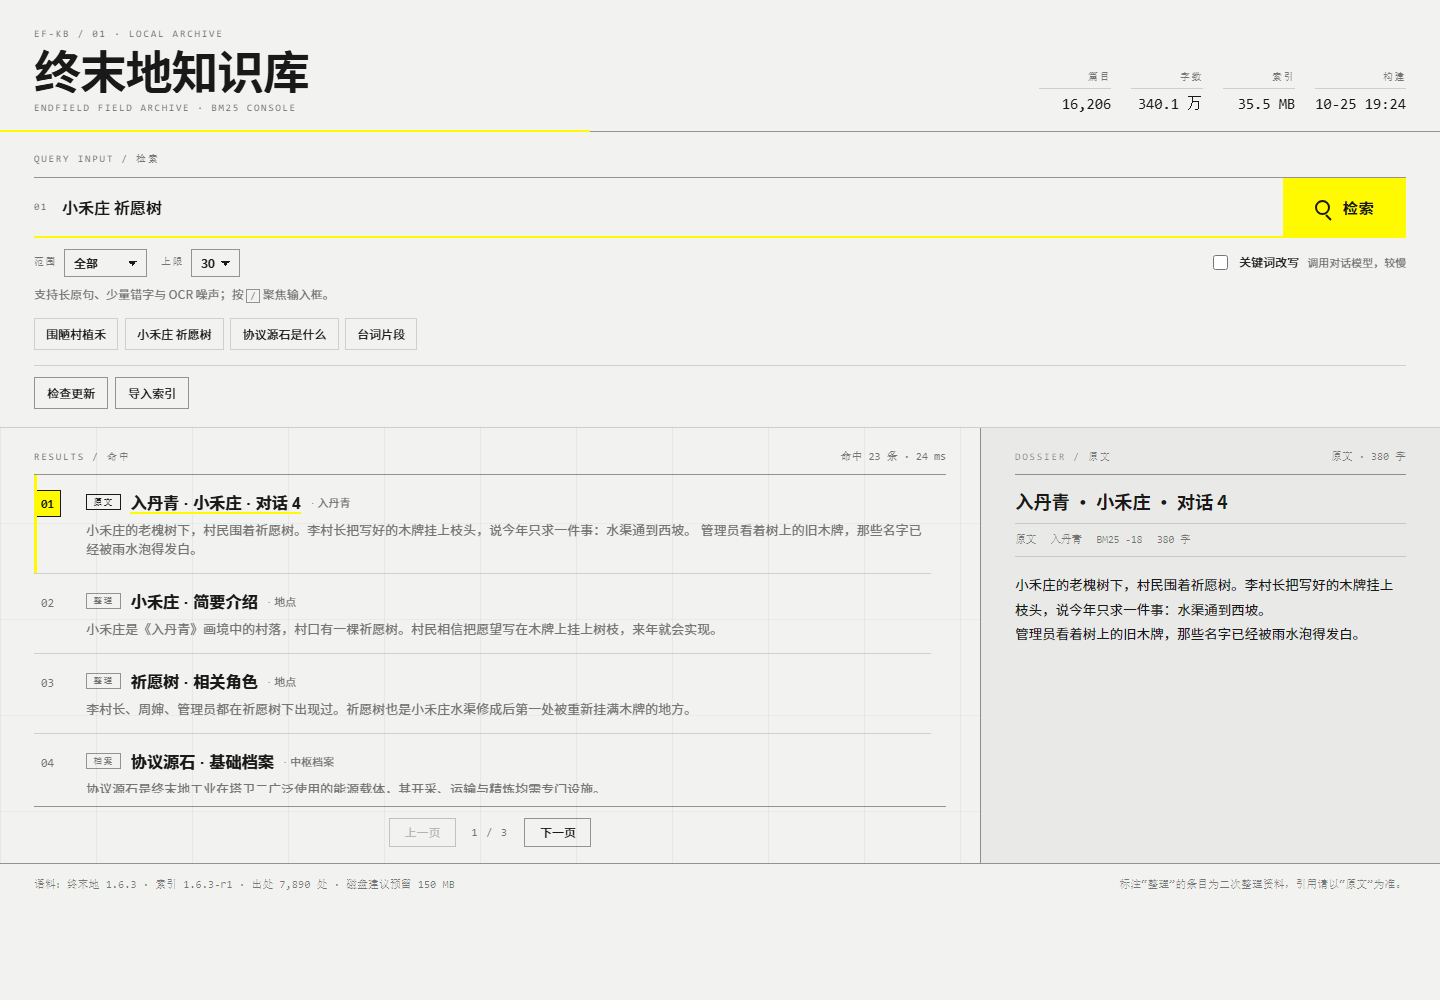
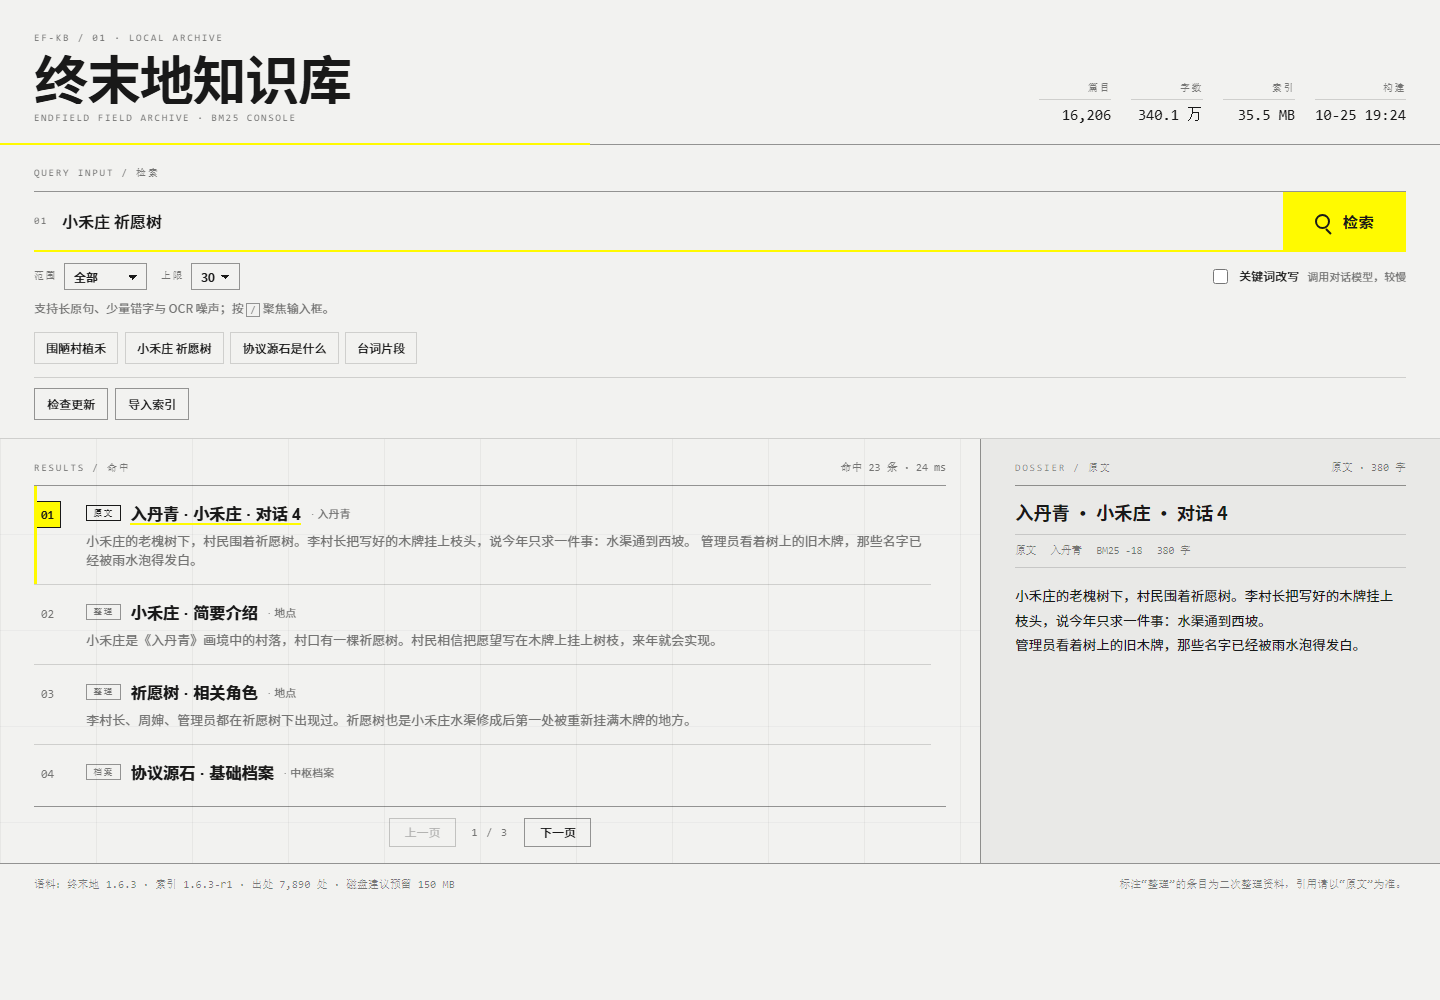
fix: keep header proportions on wide viewports

diff --git a/views/kb-console/style.css b/views/kb-console/style.css
@@ -73,8 +73,8 @@ body {
   align-items: flex-end;
   justify-content: space-between;
   gap: 2rem;
-  padding: clamp(0.8rem, 3vh, 2.75rem) var(--ark-gutter)
-    clamp(0.7rem, 1.6vh, 1.25rem);
+  padding: clamp(1rem, 2.2vw, 2.4rem) var(--ark-gutter)
+    clamp(0.8rem, 1.2vw, 1.2rem);
   border-block-end: 1px solid var(--ark-rule-strong);
   position: relative;
 }
@@ -109,7 +109,7 @@ body {
 .ark-title {
   margin: 0.35rem 0 0;
   font-family: var(--ark-font-cjk);
-  font-size: clamp(1.7rem, min(5.2vh, 8vw), 3.4rem);
+  font-size: clamp(2rem, 4.4vw, 3.4rem);
   font-weight: 700;
   letter-spacing: -0.03em;
   line-height: 0.94;
@@ -154,8 +154,8 @@ body {
 
 .ark-query {
   grid-column: 1 / -1;
-  padding: clamp(0.8rem, 2.4vh, 1.25rem) var(--ark-gutter)
-    clamp(0.7rem, 2vh, 1.1rem);
+  padding: clamp(1rem, 1.8vw, 1.3rem) var(--ark-gutter)
+    clamp(0.85rem, 1.4vw, 1.1rem);
   border-block-end: 1px solid var(--ark-rule);
 }
 
@@ -345,7 +345,7 @@ body {
   display: flex;
   flex-wrap: wrap;
   gap: 0.4rem;
-  margin: clamp(0.45rem, 1.8vh, 0.85rem) 0 0;
+  margin: clamp(0.6rem, 1vw, 0.85rem) 0 0;
   padding: 0;
   list-style: none;
 }
@@ -371,8 +371,8 @@ body {
   align-items: center;
   flex-wrap: wrap;
   gap: 0.45rem;
-  margin-block-start: clamp(0.45rem, 1.8vh, 0.9rem);
-  padding-block-start: clamp(0.4rem, 1.4vh, 0.7rem);
+  margin-block-start: clamp(0.55rem, 0.9vw, 0.9rem);
+  padding-block-start: clamp(0.45rem, 0.7vw, 0.7rem);
   border-block-start: 1px solid var(--ark-rule);
 }
 
@@ -794,7 +794,7 @@ body {
 /* ---------------------------------------------------------------- 竖屏 */
 
 /* 窗口不高时进一步收掉非必要行，把高度让给结果列表 */
-@media (max-height: 900px) {
+@media (max-height: 760px) {
   .ark-sub {
     display: none;
   }
@@ -819,7 +819,7 @@ body {
   }
 }
 
-@media (max-height: 780px) {
+@media (max-height: 650px) {
   .ark-stats {
     display: none;
   }
